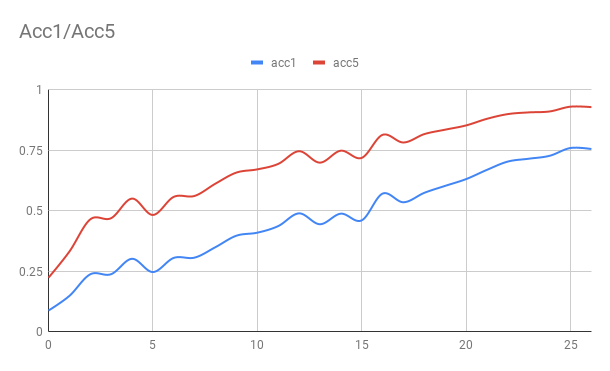
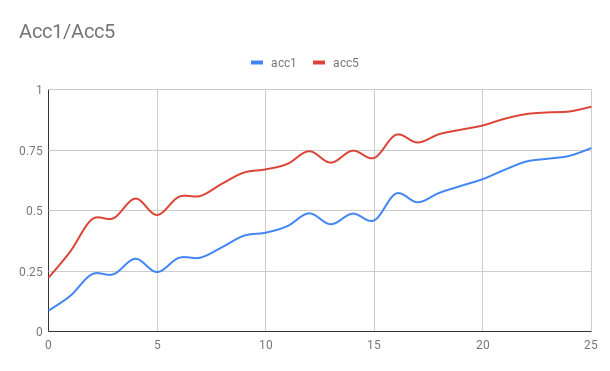
fix test acc

diff --git a/fluid/PaddleCV/image_classification/fast_imagenet/README.md b/fluid/PaddleCV/image_classification/fast_imagenet/README.md
@@ -3,7 +3,7 @@
 PaddlePaddle Fast ImageNet can train ImageNet dataset with fewer epochs. We implemented the it according to the blog 
 [Now anyone can train Imagenet in 18 minutes](https://www.fast.ai/2018/08/10/fastai-diu-imagenet/) which published on the [fast.ai] website.
 PaddlePaddle Fast ImageNet using the dynmiac batch size, dynamic image size, rectangular images validation and etc... so that the Fast ImageNet can achieve the baseline
-(acc1: 75%, acc5: 93%) by 27 epochs on 8 * V100 GPUs.
+(acc1: 75.9%, acc5: 93.0%) at 26 epochs on 8 * V100 GPUs.
 
 ## Experiment
 
